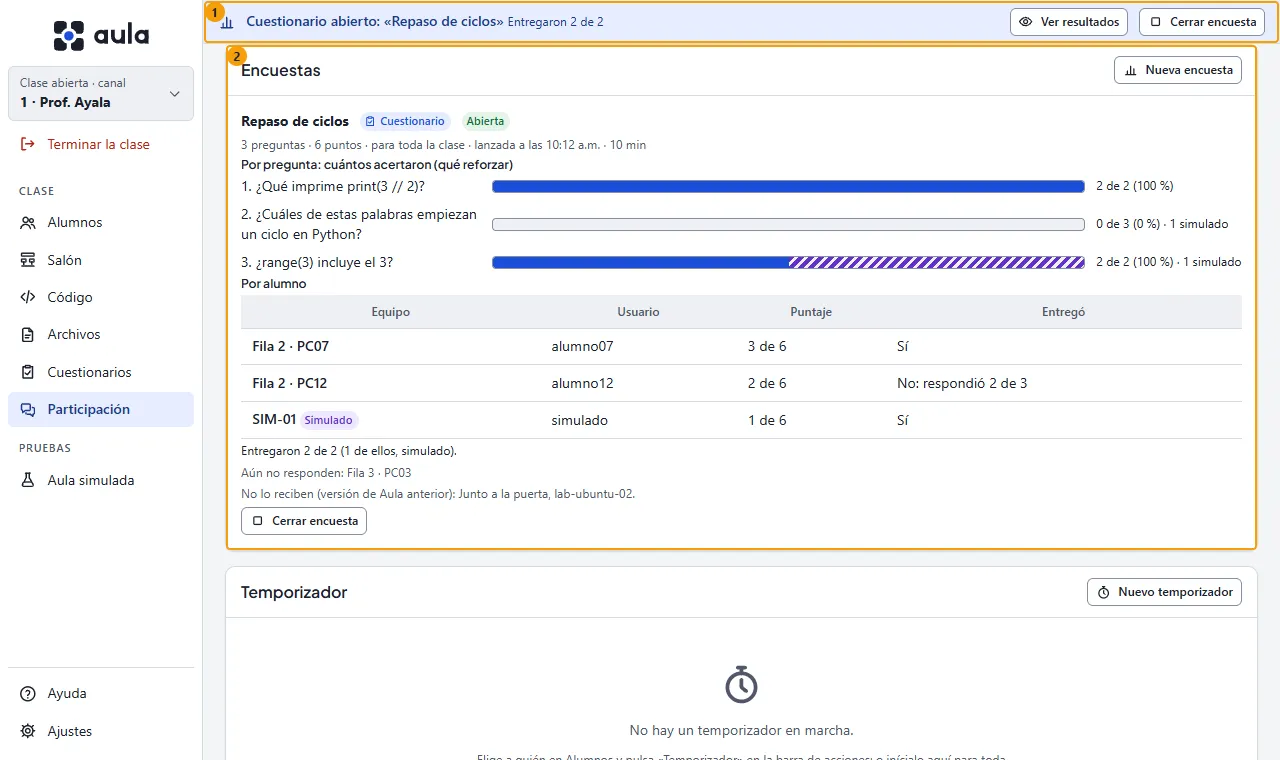
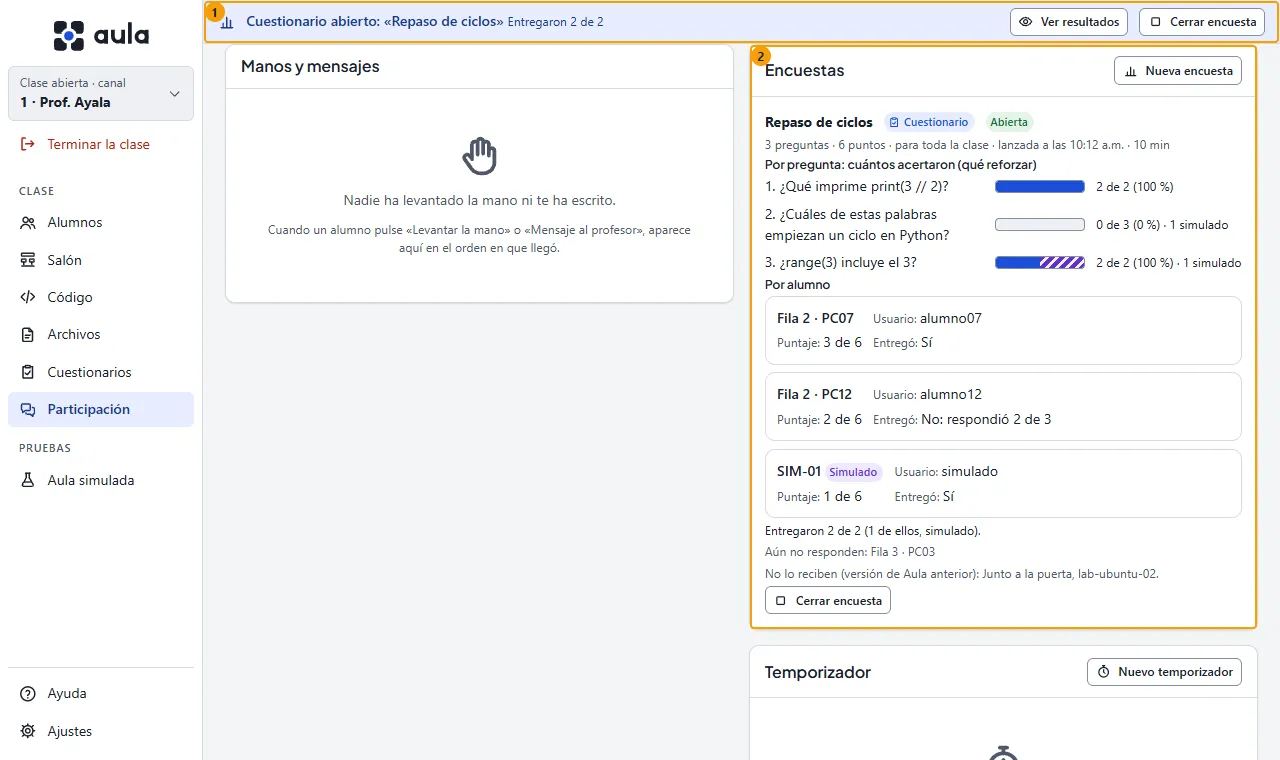
documentacion(ux): notas de interfaz 007 a 015, zonas y mapa
Las notas 007 a 015 quedan hechas (la 015 apunta al prompt 10.26), con las zonas que cambiaron
de lugar o de descripción y el mapa regenerado.

diff --git a/docs/ux/MAPA.md b/docs/ux/MAPA.md
@@ -20,10 +20,10 @@ archivo y sus imágenes los genera `node scripts/ux/mapa.mjs` (no se editan a ma
 | 4 | **Cabecera de la vista** | Título de la vista, su resumen y el «?» de ayuda contextual. |
 | 5 | **Selección** | A quién van las acciones de la barra: «Todos (n)» o «n seleccionados», con su explicación en el tooltip. |
 | 6 | **Selector Lista | Miniaturas | Salón** | Cambia entre la tabla, las miniaturas de pantalla y los alumnos en su lugar del salón. |
-| 7 | **Mostrar apagados** | Muestra en la lista los equipos que la consola conoce y no están conectados, con Encender y Olvidar; solo en Lista y se recuerda (prompt 10.19). |
+| 7 | **Mostrar apagados** | El interruptor «Apagados (n)»: muestra en la lista los equipos que la consola conoce y no están conectados, con una casilla para marcarlos todos; solo en Lista y se recuerda (prompt 10.19). |
 | 8 | **Lista de alumnos** | Tabla con un alumno por fila. |
-| 9 | **Fila del alumno** | Un alumno: casilla, equipo, estado, insignias y el botón de su ficha; en un equipo sin conexión, Encender. |
-| 10 | **Barra de acciones** | Abajo: lo que se aplica a la selección (aviso, transmitir, pausar, restricciones, captura, temporizador, encuesta, energía…). |
+| 9 | **Fila del alumno** | Un alumno: número, casilla, equipo, estado, insignias y sus Acciones (ficha, Encender y Olvidar, solo iconos con su tooltip). |
+| 10 | **Barra de acciones** | Abajo: lo que se aplica a la selección (aviso, transmitir, pausar, restricciones, captura, temporizador, encuesta, energía, encender…), un botón por acción, todos del mismo tamaño. |
 
 ### Consola · Alumnos (miniaturas)
 
@@ -34,7 +34,7 @@ archivo y sus imágenes los genera `node scripts/ux/mapa.mjs` (no se editan a ma
 | 1 | **Tamaño de las miniaturas** | Pequeño, Mediano, Grande, Extra grande o Ajustar a la pantalla; en Miniaturas y en Salón, y se recuerda. |
 | 2 | **Miniaturas** | Cuadrícula con la pantalla de cada alumno. |
 | 3 | **Tarjeta del alumno** | La miniatura de un alumno como un monitor, con su nombre; un clic en la pantalla abre la Pantalla grande. |
-| 4 | **Barra de acciones** | Abajo: lo que se aplica a la selección (aviso, transmitir, pausar, restricciones, captura, temporizador, encuesta, energía…). |
+| 4 | **Barra de acciones** | Abajo: lo que se aplica a la selección (aviso, transmitir, pausar, restricciones, captura, temporizador, encuesta, energía, encender…), un botón por acción, todos del mismo tamaño. |
 
 ### Consola · Ficha del alumno
 
@@ -62,7 +62,7 @@ archivo y sus imágenes los genera `node scripts/ux/mapa.mjs` (no se editan a ma
 |---|---|---|
 | 1 | **Franja global** | Lo que sigue activo durante la clase (transmitir, proyectar a un alumno, control, pantallas en pausa, energía, temporizador, encuesta o cuestionario abierto, aula simulada), con su botón para detenerlo. |
 | 2 | **Panel Aviso** | Mandar un aviso a la selección. |
-| 3 | **Barra de acciones** | Abajo: lo que se aplica a la selección (aviso, transmitir, pausar, restricciones, captura, temporizador, encuesta, energía…). |
+| 3 | **Barra de acciones** | Abajo: lo que se aplica a la selección (aviso, transmitir, pausar, restricciones, captura, temporizador, encuesta, energía, encender…), un botón por acción, todos del mismo tamaño. |
 
 ### Consola · Pausar pantallas
 
@@ -72,7 +72,7 @@ archivo y sus imágenes los genera `node scripts/ux/mapa.mjs` (no se editan a ma
 |---|---|---|
 | 1 | **Franja global** | Lo que sigue activo durante la clase (transmitir, proyectar a un alumno, control, pantallas en pausa, energía, temporizador, encuesta o cuestionario abierto, aula simulada), con su botón para detenerlo. |
 | 2 | **Panel Pausar pantallas** | Pausar las pantallas de la selección o de todos, con un mensaje opcional, o reanudarlas (Ctrl+Mayús+P). |
-| 3 | **Barra de acciones** | Abajo: lo que se aplica a la selección (aviso, transmitir, pausar, restricciones, captura, temporizador, encuesta, energía…). |
+| 3 | **Barra de acciones** | Abajo: lo que se aplica a la selección (aviso, transmitir, pausar, restricciones, captura, temporizador, encuesta, energía, encender…), un botón por acción, todos del mismo tamaño. |
 
 ### Consola · Terminar la clase
 
@@ -90,7 +90,7 @@ archivo y sus imágenes los genera `node scripts/ux/mapa.mjs` (no se editan a ma
 | # | Zona | Qué es |
 |---|---|---|
 | 1 | **Panel Abrir página o app** | Abrir una página en el navegador o una app permitida en los equipos de la selección, y las últimas que abriste. |
-| 2 | **Barra de acciones** | Abajo: lo que se aplica a la selección (aviso, transmitir, pausar, restricciones, captura, temporizador, encuesta, energía…). |
+| 2 | **Barra de acciones** | Abajo: lo que se aplica a la selección (aviso, transmitir, pausar, restricciones, captura, temporizador, encuesta, energía, encender…), un botón por acción, todos del mismo tamaño. |
 
 ### Consola · Ajustes › Apps permitidas
 
@@ -154,7 +154,7 @@ archivo y sus imágenes los genera `node scripts/ux/mapa.mjs` (no se editan a ma
 | # | Zona | Qué es |
 |---|---|---|
 | 1 | **Panel Encuesta** | La pregunta, el tipo de respuesta, las opciones y «Ver quién respondió qué»; Lanzar a todos o a la selección. |
-| 2 | **Barra de acciones** | Abajo: lo que se aplica a la selección (aviso, transmitir, pausar, restricciones, captura, temporizador, encuesta, energía…). |
+| 2 | **Barra de acciones** | Abajo: lo que se aplica a la selección (aviso, transmitir, pausar, restricciones, captura, temporizador, encuesta, energía, encender…), un botón por acción, todos del mismo tamaño. |
 
 ### Consola · Participación › Encuestas
 
@@ -173,7 +173,7 @@ archivo y sus imágenes los genera `node scripts/ux/mapa.mjs` (no se editan a ma
 |---|---|---|
 | 1 | **Selector Lista | Miniaturas | Salón** | Cambia entre la tabla, las miniaturas de pantalla y los alumnos en su lugar del salón. |
 | 2 | **Alumnos en el salón** | Las tarjetas de los alumnos en su lugar del salón; el lugar de un equipo sin conexión se ve vacío, con Encender. Los números de fila y columna seleccionan a los de esa fila o columna (prompt 10.15). |
-| 3 | **Barra de acciones** | Abajo: lo que se aplica a la selección (aviso, transmitir, pausar, restricciones, captura, temporizador, encuesta, energía…). |
+| 3 | **Barra de acciones** | Abajo: lo que se aplica a la selección (aviso, transmitir, pausar, restricciones, captura, temporizador, encuesta, energía, encender…), un botón por acción, todos del mismo tamaño. |
 
 ### Consola · Salón
 
@@ -195,7 +195,7 @@ archivo y sus imágenes los genera `node scripts/ux/mapa.mjs` (no se editan a ma
 |---|---|---|
 | 1 | **Menú** | Columna izquierda: la clase abierta, las vistas y Ayuda y Ajustes. |
 | 2 | **Cuestionarios guardados** | Los de Documentos\Aula\cuestionarios con «Lanzar a» (todos o la selección), Lanzar, Editar, Eliminar, Nuevo cuestionario y Abrir carpeta. |
-| 3 | **Editor de cuestionario** | Título, tiempo, al azar y cada pregunta con su tipo, puntos y opciones con el interruptor Correcta; Guardar y Guardar y lanzar. |
+| 3 | **Editor de cuestionario** | Diálogo con los datos (título, tiempo, al azar) y cada pregunta con su tipo, puntos y opciones con la columna Correcta; Guardar y Guardar y lanzar. |
 
 ### Consola · Participación › Encuestas (cuestionario)
 
@@ -316,14 +316,14 @@ También las que no salen en una imagen (diálogos y paneles). El `id` es el que
 | `alumnos` | Vista Alumnos | Los alumnos del canal, en lista, miniaturas o como en el salón. |
 | `alumnos-modo` | Vista Alumnos › Selector Lista | Miniaturas | Salón | Cambia entre la tabla, las miniaturas de pantalla y los alumnos en su lugar del salón. |
 | `alumnos-lista` | Vista Alumnos › Lista de alumnos | Tabla con un alumno por fila. |
-| `fila-alumno` | Vista Alumnos › Lista de alumnos › Fila del alumno | Un alumno: casilla, equipo, estado, insignias y el botón de su ficha; en un equipo sin conexión, Encender. |
+| `fila-alumno` | Vista Alumnos › Lista de alumnos › Fila del alumno | Un alumno: número, casilla, equipo, estado, insignias y sus Acciones (ficha, Encender y Olvidar, solo iconos con su tooltip). |
 | `alumnos-seleccion` | Vista Alumnos › Selección | A quién van las acciones de la barra: «Todos (n)» o «n seleccionados», con su explicación en el tooltip. |
-| `alumnos-apagados` | Vista Alumnos › Mostrar apagados | Muestra en la lista los equipos que la consola conoce y no están conectados, con Encender y Olvidar; solo en Lista y se recuerda (prompt 10.19). |
+| `alumnos-apagados` | Vista Alumnos › Mostrar apagados | El interruptor «Apagados (n)»: muestra en la lista los equipos que la consola conoce y no están conectados, con una casilla para marcarlos todos; solo en Lista y se recuerda (prompt 10.19). |
 | `alumnos-tamano` | Vista Alumnos › Tamaño de las miniaturas | Pequeño, Mediano, Grande, Extra grande o Ajustar a la pantalla; en Miniaturas y en Salón, y se recuerda. |
 | `alumnos-miniaturas` | Vista Alumnos › Miniaturas | Cuadrícula con la pantalla de cada alumno. |
 | `tarjeta-alumno` | Vista Alumnos › Miniaturas › Tarjeta del alumno | La miniatura de un alumno como un monitor, con su nombre; un clic en la pantalla abre la Pantalla grande. |
 | `alumnos-salon` | Vista Alumnos › Alumnos en el salón | Las tarjetas de los alumnos en su lugar del salón; el lugar de un equipo sin conexión se ve vacío, con Encender. Los números de fila y columna seleccionan a los de esa fila o columna (prompt 10.15). |
-| `barra-acciones` | Vista Alumnos › Barra de acciones | Abajo: lo que se aplica a la selección (aviso, transmitir, pausar, restricciones, captura, temporizador, encuesta, energía…). |
+| `barra-acciones` | Vista Alumnos › Barra de acciones | Abajo: lo que se aplica a la selección (aviso, transmitir, pausar, restricciones, captura, temporizador, encuesta, energía, encender…), un botón por acción, todos del mismo tamaño. |
 | `ficha` | Ficha del alumno | Panel derecho con los datos de un alumno y qué puede hacer su equipo; su fila queda marcada. Las acciones están en la Pantalla grande. |
 | `ficha-puede` | Ficha del alumno › Qué puede hacer su equipo | Lista de capacidades del equipo del alumno. |
 | `pantalla-grande` | Pantalla grande | La pantalla de un alumno en grande; también la vista del control remoto y la de la proyección de un alumno. |
@@ -367,7 +367,7 @@ También las que no salen en una imagen (diálogos y paneles). El `id` es el que
 | `salon-elegido` | Vista Salón › Equipo elegido | El equipo elegido: su nombre, lugar y estado, su etiqueta con Guardar etiqueta, Quitar de su lugar y Quitar del salón. |
 | `cuestionarios` | Vista Cuestionarios | Los cuestionarios guardados, su editor y Lanzar; los resultados van en Participación › Encuestas. |
 | `cuest-guardados` | Vista Cuestionarios › Cuestionarios guardados | Los de Documentos\Aula\cuestionarios con «Lanzar a» (todos o la selección), Lanzar, Editar, Eliminar, Nuevo cuestionario y Abrir carpeta. |
-| `cuest-editor` | Vista Cuestionarios › Editor de cuestionario | Título, tiempo, al azar y cada pregunta con su tipo, puntos y opciones con el interruptor Correcta; Guardar y Guardar y lanzar. |
+| `cuest-editor` | Vista Cuestionarios › Editor de cuestionario | Diálogo con los datos (título, tiempo, al azar) y cada pregunta con su tipo, puntos y opciones con la columna Correcta; Guardar y Guardar y lanzar. |
 | `participacion` | Vista Participación | Lo que responden los alumnos en vivo. |
 | `manos` | Vista Participación › Manos levantadas | La fila de manos, por orden de llegada. |
 | `mensajes` | Vista Participación › Mensajes de los alumnos | La bandeja de mensajes con Responder. |

diff --git a/docs/ux/notas/v0.1.0/LEEME.md b/docs/ux/notas/v0.1.0/LEEME.md
@@ -17,3 +17,12 @@ donde se anotó (`.gitignore`): los enlaces de «Capturas» abren ahí. Todas la
 | 4 | hecha | Consola › Vista Alumnos › Miniaturas · «Esperando imagen… LAB3-PC07Conectado alumno07 Esperando imagen… LAB3-PC12Conecta» | agregar | Necesito una configuración donde pueda cambiar el ajuste del tamaño de las vistas en miniaturas para la grilla, algo como: Pequeño, Mediano, Grande, Extra grande, Mejor ajuste, para que las pantallas se puedan volver mas pequeñas o más grandes. | lab · ambos | [elemento](004-elemento.webp) · [pantalla](004-pantalla.webp) · oscuro: [elemento](004-elemento-oscuro.webp) · [pantalla](004-pantalla-oscuro.webp) |
 | 5 | hecha | Consola › Vista Alumnos › Miniaturas › Tarjeta del alumno · «Esperando imagen… LAB3-PC12Conectado alumno12» | estilo | Quiero que la vista miniatura se represente en forma de un icono de monitor para darle un mejor diseño y estilo y que la pantalla pues sea la imagen del alumno | lab · ambos | [elemento](005-elemento.webp) · [pantalla](005-pantalla.webp) · oscuro: [elemento](005-elemento-oscuro.webp) · [pantalla](005-pantalla-oscuro.webp) |
 | 6 | hecha | Consola › Vista Alumnos › Barra de acciones · «Sin selección: las acciones van a todos los conectados Mostrar mi pantalla Aviso» | mover | Este texto que controla si no hay alumnos seleccionados o el contador de cuantos hay seleccionados, muevelo en la parte de la cabecera aún lado de donde esta el contador de los conectados o desconectados, y que las leyendas de los textos no sean tan largos "simplifícalos" y agrégales tooltips como mensajes de ayuda si es necesario, esto servirá para la barra de acciones para que tenga más espacio para nuevas acciones | lab · ambos | [elemento](006-elemento.webp) · [pantalla](006-pantalla.webp) · oscuro: [elemento](006-elemento-oscuro.webp) · [pantalla](006-pantalla-oscuro.webp) |
+| 7 | hecha | Consola › Vista Alumnos › Cabecera de la vista · «Alumnos 4 conectados1 desconectado Todos (4) · Sin selección: las acciones van a» | estilo | Con todas las nuevas funcionalidades implementadas fue creciendo los botones de las acciones, tanto que ya saltaron la linea, realiza una mejora para que el acomodo de los botones quede en una misma linea y que el diseño coincida entre todos los diferentes botones, ya que se ven muy diferentes unos de otros. | lab · ambos | [elemento](007-elemento.webp) · [pantalla](007-pantalla.webp) · oscuro: [elemento](007-elemento-oscuro.webp) · [pantalla](007-pantalla-oscuro.webp) |
+| 8 | hecha | Consola › Vista Alumnos › Barra de acciones · «Mostrar mi pantalla Aviso Pausar Restricciones Energía Captura Temporizador Encu» | estilo | El diseño de los botones de la barra de acciones, no se ve uniforme, quisiera que todos los botones se vieran uniformes, opinión sugerida #1 "1. Eliminar la etiqueta tooltip, 2. Ocultar el texto de los botones, 3. Cuando el usuario pase el mouse sobre el icono de los botones que muestre el texto de los botones"; opinión sugerida #2 "1. Poner el icono del botón arriba del texto 2. Hacer que el botón tenga el mismo tamaño 3. Mostrar el tooltip solamente con el icono cuando el texto esta oculto". Analiza mis opiniones sugeridas cual es lo mejor para el ux-ui del usuario o implementa algo mejor. | lab · ambos | [elemento](008-elemento.webp) · [pantalla](008-pantalla.webp) · oscuro: [elemento](008-elemento-oscuro.webp) · [pantalla](008-pantalla-oscuro.webp) |
+| 9 | hecha | Consola › Vista Alumnos › Lista de alumnos · «Alumnos de la clase» | estilo | Cuando se habilitan las computadoras apagadas no existe un input para poder seleccionar y deseleccionar todas las computadoras apagadas" y tampoco existe un botón para poder prender todas las computadoras en una sola acción, creo que debería haber un botón de "Encender" en la "Barra de acciones" y el botón se debería de habilitar solamente cuando este seleccionada 1 computadora o más. | lab · ambos | [elemento](009-elemento.webp) · [pantalla](009-pantalla.webp) · oscuro: [elemento](009-elemento-oscuro.webp) · [pantalla](009-pantalla-oscuro.webp) |
+| 10 | hecha | Consola › Vista Alumnos › Lista de alumnos · «Alumnos de la clase» | estilo | Los botones de "Encender" de cada fila de un alumno están ubicados en la columna de "Notas", creo que debería de haber una columna llamada "Acciones" y ahí deberían esta los botones de "i", "Eliminar" y "Encender" y solamente representarlos con puros iconos sin texto así como el botón de "i" y que todos tengan el tooltip con el mensaje del título. | lab · ambos | [elemento](010-elemento.webp) · [pantalla](010-pantalla.webp) · oscuro: [elemento](010-elemento-oscuro.webp) · [pantalla](010-pantalla-oscuro.webp) |
+| 11 | hecha | Consola › Vista Alumnos · «Alumnos 4 conectados1 desconectado Todos (4) · Sin selección: las acciones van a» | estilo | Cuando la lista de alumnos crece no veo como un scrollbar para poder subir o bajar en el listado de la tabla de los filas de los alumnos | lab · ambos | [elemento](011-elemento.webp) · [pantalla](011-pantalla.webp) · oscuro: [elemento](011-elemento-oscuro.webp) · [pantalla](011-pantalla-oscuro.webp) |
+| 12 | hecha | Consola › Vista Cuestionarios › Editor de cuestionario · «Nuevo cuestionario Título Tiempo en minutos (opcional) Con tiempo, se lanza el t» | estilo | 1. Quiero que el editor del cuestionario se abra en una ventana modal en creación o modificación  2. La forma de marcar las respuestas correctas en cada opción esta un poco confuso por que esta aún lado de donde se elimina la opción y entre checkbox y la "x" se confunde un poco.  3. El acomo del formulario en general esta un poco desacomodado y no tiene uniformidad, realiza un mejor orden y acomodo de las secciones.  4. El texto de "Pregunta X" abajo esta el texto de "Pregunta" se duplica la palabra "Pregunta" es redundante | lab-cuestionario · ambos | [elemento](012-elemento.webp) · [pantalla](012-pantalla.webp) · oscuro: [elemento](012-elemento-oscuro.webp) · [pantalla](012-pantalla-oscuro.webp) |
+| 13 | hecha | Consola › (zona sin nombre) · «Alumnos 4 conectados1 desconectado Todos (4) · Sin selección: las acciones van a» | estilo | Al ver la vista "Salón", al estar cambiando el tipo de tamaño para la vista "pequeña, mediana, grande, extra grande o ajustar" la barra de acciones se desacomoda y queda a la mitad de la vista de la pantalla | lab · ambos | [elemento](013-elemento.webp) · [pantalla](013-pantalla.webp) · oscuro: [elemento](013-elemento-oscuro.webp) · [pantalla](013-pantalla-oscuro.webp) |
+| 14 | hecha | Consola › Vista Salón · «Plano del salón Filas 123456789101112 Columnas 123456789101112 Al hacer clic en » | mover | La sección de "Frente del salón (pizarron)" quiero que tome todo el ancho de la pantalla y las secciones de "Sin acomodar" y "Equipo creo es mejor que se acomode en la parte superior aún lado de "Filas", "Columnas" y "Al hacer click en el lugar", creo que suficiente espacio para todo realiza un mejor acomodo de la parte superior. | lab · ambos | [elemento](014-elemento.webp) · [pantalla](014-pantalla.webp) · oscuro: [elemento](014-elemento-oscuro.webp) · [pantalla](014-pantalla-oscuro.webp) |
+| 15 | hecha — Hecho el acomodo en dos columnas. La bandeja tipo chat (Por atender, Atendidas y una conversación por alumno) quedó como prompt: docs/prompts/10.26-bandeja-de-mensajes-tipo-chat.md, para /funcionalidad-mejora. | Consola › Vista Participación · «Manos y mensajes Bajar todas Nadie ha levantado la mano ni te ha escrito. Cuando» | estilo | El acomodo de las secciones "Manos y mensajes", "Encuestas" y "Temporizador", creo que sería mejor si se acomoda de la siguiente forma: -----------------------  --------------------- / Manos y mensajes  / / Encuestas             / /                                 / /                             / /                                 / --------------------- /                                 / ---------------------- /                                 / / Temporizador       / /                                 / /                              / ------------------------ ----------------------  y la sección de Manos y mensajes quiero que tenga un diseño como las aplicaciones de chats, con clasificación deinbox e historial de mensajes como el correo del gmail | lab · ambos | [elemento](015-elemento.webp) · [pantalla](015-pantalla.webp) · oscuro: [elemento](015-elemento-oscuro.webp) · [pantalla](015-pantalla-oscuro.webp) |

diff --git a/docs/ux/notas/LEEME.md b/docs/ux/notas/LEEME.md
@@ -10,4 +10,4 @@ equipo donde se anotó (`.gitignore`).
 
 | Versión | Notas | Pendientes o en curso | Hechas | Descartadas |
 |---|---|---|---|---|
-| [v0.1.0](v0.1.0/LEEME.md) (en curso) | 6 | 0 | 6 | 0 |
+| [v0.1.0](v0.1.0/LEEME.md) (en curso) | 15 | 0 | 15 | 0 |
